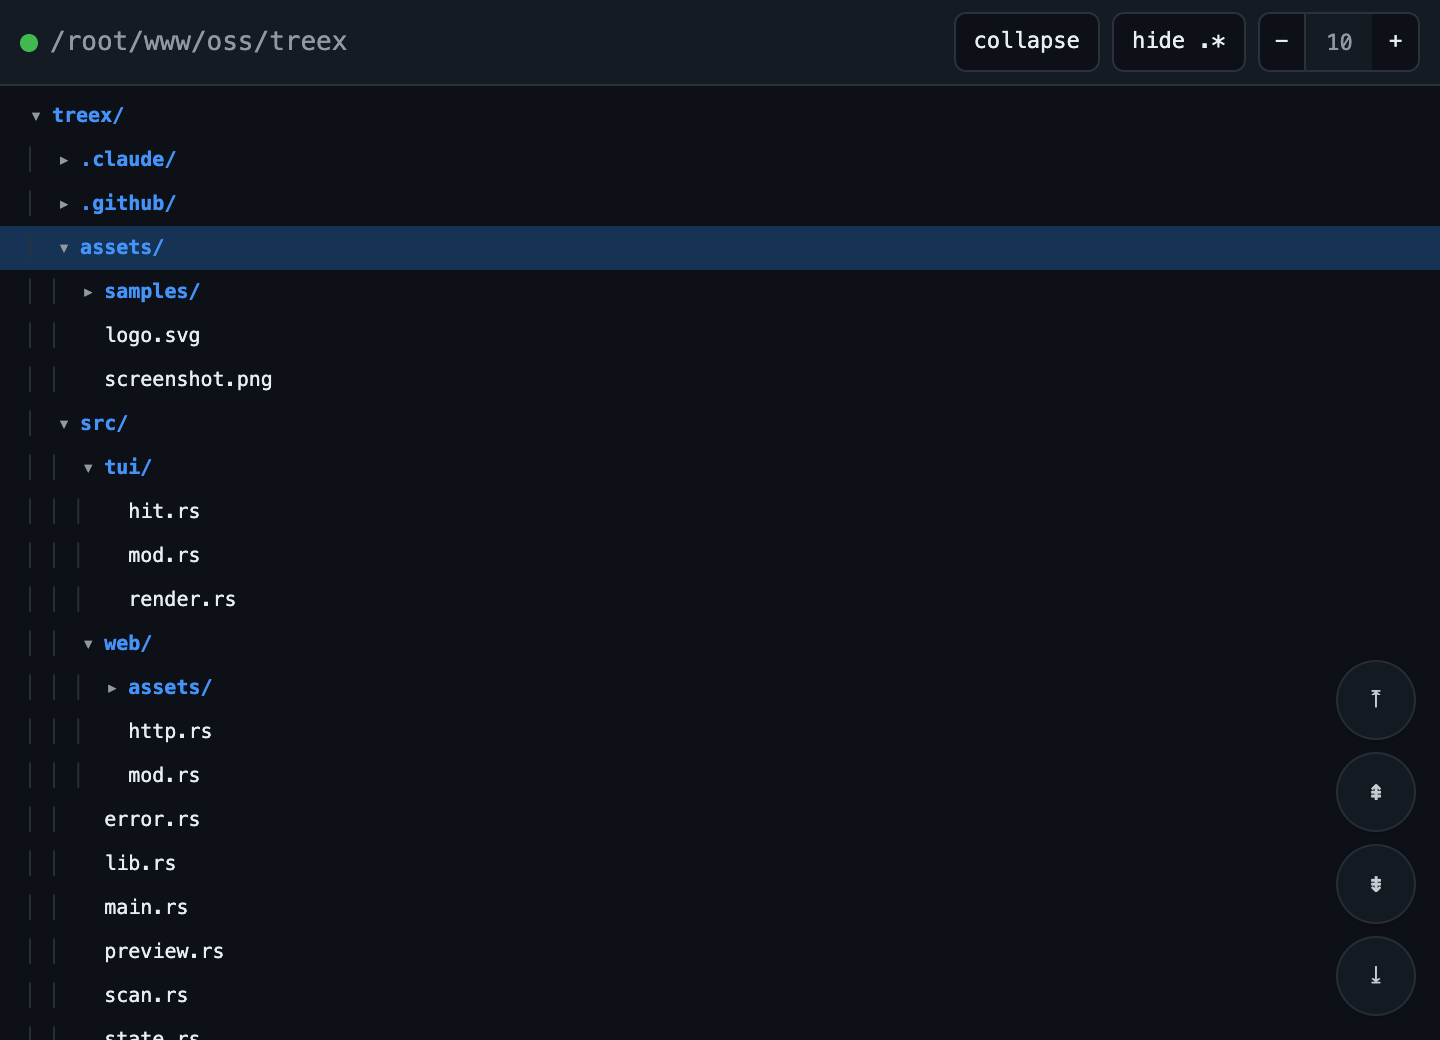
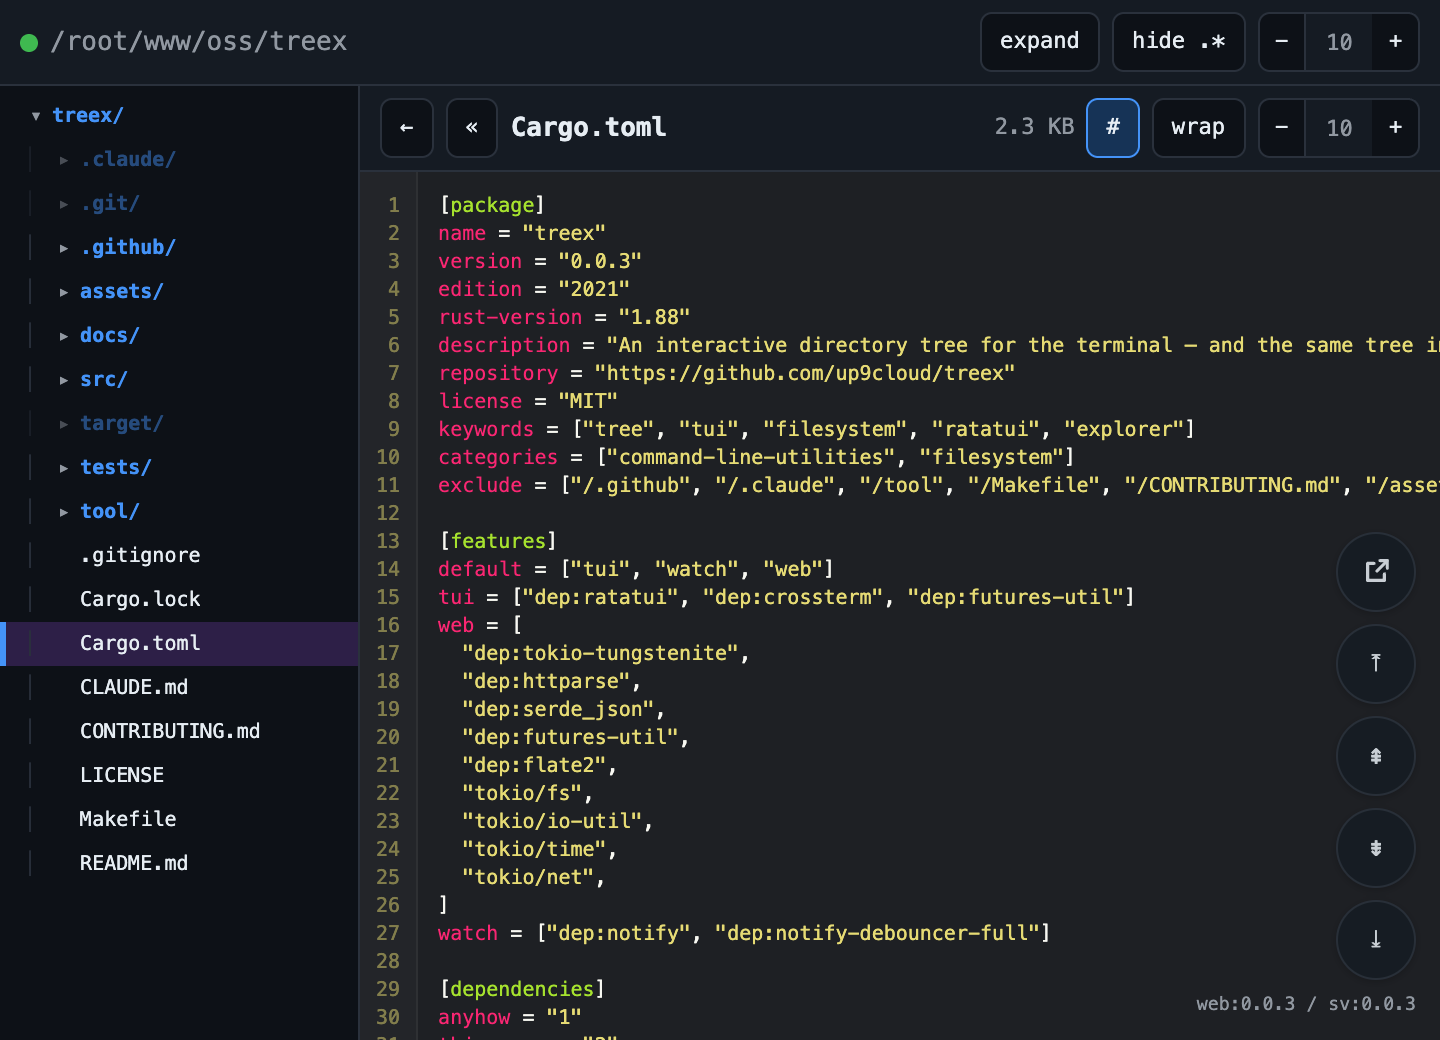
Retake the screenshot on a version that has a file in it
The old one was a tree and nothing else, which was the whole product when it
was taken and is now the left quarter of it. The new one is the same frame and
the same dark theme, showing what this release is: the whole root listing beside
an open `Cargo.toml`, with `.claude/`, `.git/` and `target/` dimmed because git
ignores them and the file coloured by the machine's own `bat`.

`Cargo.toml` rather than a source file on purpose — it is the one file in any
Rust checkout a reader already knows, so the picture is about the tool rather
than about this code.

It is 213 KB against 68 KB: a screen of syntax-coloured text does not compress
like a screen of one colour, and there is no `optipng` on this machine to argue
with it.

diff --git a/README.md b/README.md
@@ -11,7 +11,7 @@ browser, live-synced.
 [![docs.rs](https://img.shields.io/docsrs/treex)](https://docs.rs/treex)
 [![CI](https://github.com/up9cloud/treex/actions/workflows/main.yml/badge.svg)](https://github.com/up9cloud/treex/actions/workflows/main.yml)
 
-<img src="https://raw.githubusercontent.com/up9cloud/treex/master/assets/screenshot.png" alt="treex in a browser: the directory tree with src/, tui/ and web/ expanded" width="720">
+<img src="https://raw.githubusercontent.com/up9cloud/treex/master/assets/screenshot.png" alt="treex in a browser: the tree on the left with the directories git ignores dimmed, and Cargo.toml open and coloured on the right" width="720">
 
 Most terminal file managers show you *one directory at a time* (ranger, yazi,
 nnn) or *fit the tree to your screen by hiding branches* (broot). `treex` does
